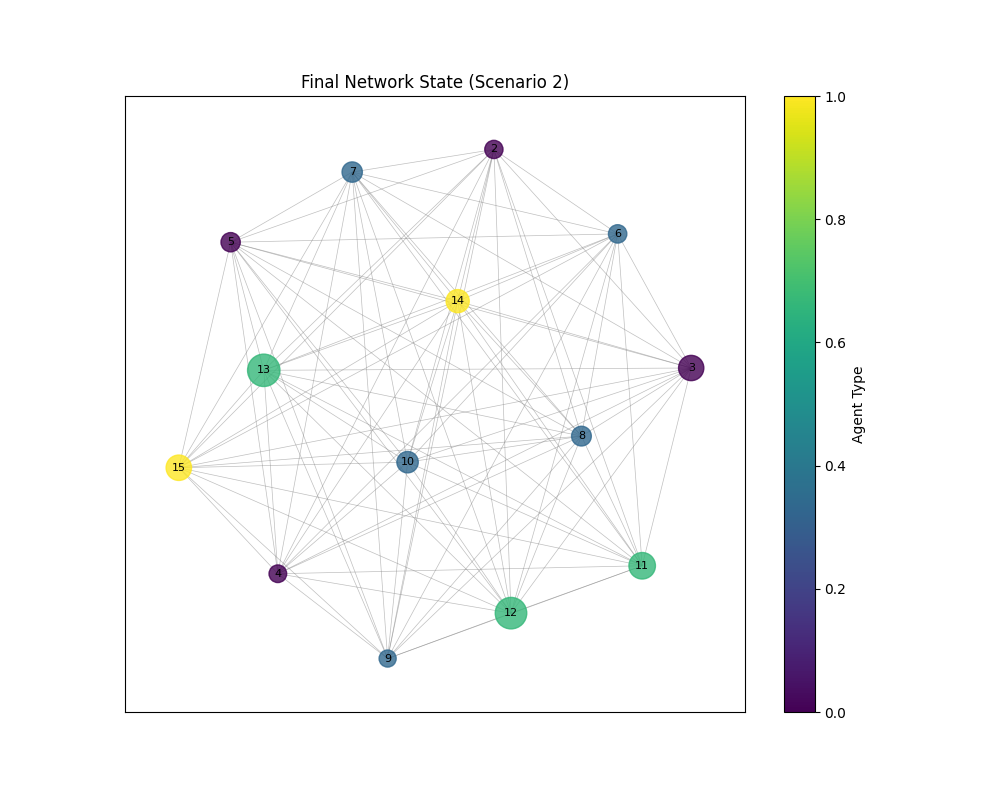
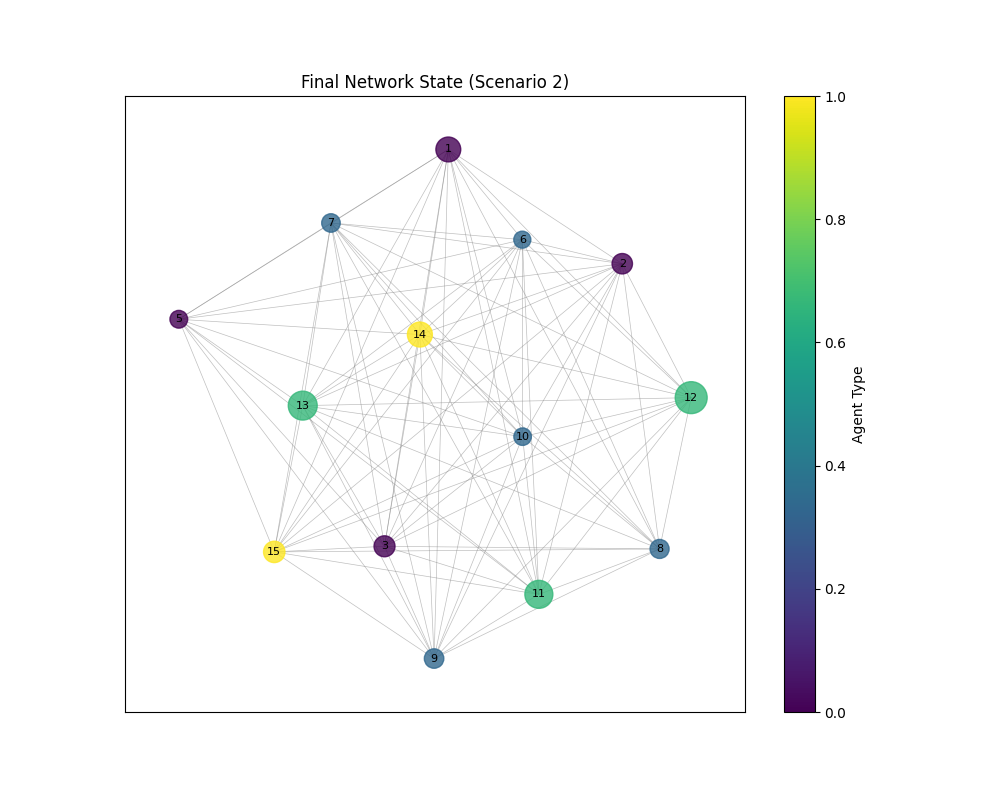
feat: Implement Scenario 3 (Resource Opportunity Window)

Changed region(s): [[0.155, 0.1562, 0.713, 0.8438]]

diff --git a/governance_model.py b/governance_model.py
@@ -13,6 +13,7 @@ class AgentType(enum.Enum):
     CSO = 2
     PRIVATE_ENTERPRISE = 3
     ACADEMIC = 4
+    RESOURCE_NODE = 5
 
 class GovernanceAgent(mesa.Agent):
     """An agent representing an organizational actor in the governance network."""
@@ -37,16 +38,26 @@ class GovernanceAgent(mesa.Agent):
                 for agent in self.model.agent_set
                 if agent.unique_id != self.unique_id and not self.model.G.has_edge(self.unique_id, agent.unique_id)
             ]
+
+            # Add resource node as a possible partner if it exists and is not connected
+            if hasattr(self.model, 'resource_node') and self.model.resource_node.unique_id != self.unique_id and not self.model.G.has_edge(self.unique_id, self.model.resource_node.unique_id):
+                possible_partners.append(self.model.resource_node)
+
             if possible_partners:
                 partner = self.random.choice(possible_partners)
                 
                 # Simplified probability calculation
-                homophily_score = 1 if self.agent_type == partner.agent_type else 0
-                resource_seeking_score = max(0, (partner.resources - self.resources) / 100)
-                
-                # Motivation profile weighs the scores
-                prob = (self.motivation_profile * homophily_score + 
-                        (1 - self.motivation_profile) * resource_seeking_score)
+                if hasattr(partner, "is_resource_node"):
+                    # Probability for resource node: proportional to agent's resources and degree
+                    agent_degree = self.model.G.degree[self.unique_id] if self.unique_id in self.model.G else 0
+                    prob = (self.resources / 100.0) * (agent_degree / (len(self.model.agent_set) - 1)) # Normalize resources and degree
+                else:
+                    homophily_score = 1 if self.agent_type == partner.agent_type else 0
+                    resource_seeking_score = max(0, (partner.resources - self.resources) / 100)
+                    
+                    # Motivation profile weighs the scores
+                    prob = (self.motivation_profile * homophily_score + 
+                            (1 - self.motivation_profile) * resource_seeking_score)
                 
                 if self.random.random() < prob:
                     self.model.G.add_edge(self.unique_id, partner.unique_id, relationship_strength=0.05)
@@ -65,13 +76,14 @@ class GovernanceAgent(mesa.Agent):
 class GovernanceModel(mesa.Model):
     """The main model for the governance network simulation."""
 
-    def __init__(self, num_agents_per_type, link_decay_rate, forum_frequency, project_resource_threshold, midpoint_removal_step=None):
+    def __init__(self, num_agents_per_type, link_decay_rate, forum_frequency, project_resource_threshold, midpoint_removal_step=None, resource_node_introduction_step=None):
         super().__init__()
         self.num_agents_per_type = num_agents_per_type
         self.link_decay_rate = link_decay_rate
         self.forum_frequency = forum_frequency
         self.project_resource_threshold = project_resource_threshold
         self.midpoint_removal_step = midpoint_removal_step
+        self.resource_node_introduction_step = resource_node_introduction_step
         self.agent_set = AgentSet([], self.random)
         self.G = nx.Graph()
         self.space = mesa.space.NetworkGrid(self.G)
@@ -93,6 +105,8 @@ class GovernanceModel(mesa.Model):
                 "Number of Active Edges": lambda m: m.G.number_of_edges(),
                 "Successful Projects": lambda m: len(m.successful_projects),
                 "Largest Connected Component Size": lambda m: len(max(nx.connected_components(m.G), key=len)) if m.G.nodes else 0,
+                "Resource Node Degree": lambda m: m.G.degree[m.resource_node.unique_id] if hasattr(m, 'resource_node') and m.resource_node.unique_id in m.G else 0,
+                "Gini Coefficient": lambda m: self.calculate_gini(m.agent_set),
             },
             agent_reporters={
                 "agent_type": "agent_type",
@@ -102,9 +116,28 @@ class GovernanceModel(mesa.Model):
             },
         )
 
+    def calculate_gini(self, agent_set):
+        """Calculates the Gini coefficient for agent resources."""
+        if not agent_set:
+            return 0.0
+        resources = sorted([agent.resources for agent in agent_set])
+        n = len(resources)
+        if n <= 1:
+            return 0.0
+        
+        numerator = sum((2 * i + 1 - n) * resources[i] for i in range(n))
+        denominator = n * sum(resources)
+        
+        if denominator == 0:
+            return 0.0
+        
+        return numerator / denominator
+
     def create_agents(self):
         """Create the agents for the model."""
         for agent_type in AgentType:
+            if agent_type == AgentType.RESOURCE_NODE: # Resource node is created dynamically
+                continue
             for _ in range(self.num_agents_per_type[agent_type]):
                 resources = self.random.uniform(10, 50)
                 commitment = self.random.uniform(0.2, 0.8)
@@ -210,6 +243,14 @@ class GovernanceModel(mesa.Model):
                 self.agent_set.remove(emu_agent)
                 self.G.remove_node(emu_agent.unique_id)
 
+        if self.resource_node_introduction_step and self.schedule.steps == self.resource_node_introduction_step:
+            resource_node_agent = GovernanceAgent(self, AgentType.RESOURCE_NODE, 1000000.0, 1.0, 0.5) # High resources, high commitment
+            self.agent_set.add(resource_node_agent)
+            self.G.add_node(resource_node_agent.unique_id, agent=resource_node_agent)
+            self.resource_node = resource_node_agent
+            setattr(resource_node_agent, "is_resource_node", True)
+            print(f"Introducing Resource Node {resource_node_agent.unique_id} at step {self.schedule.steps}")
+
         self.trigger_forum_event()
         self.link_decay()
         self.execute_joint_projects()
@@ -299,8 +340,39 @@ if __name__ == "__main__":
     model2_data = model2.datacollector.get_model_vars_dataframe()
     agent2_data = model2.datacollector.get_agent_vars_dataframe()
 
-    print("\nModel-level Data (Scenario 2):")
-    print(model2_data)
+    print("\n" + "-"*30)
+    print("Running Scenario 3: The Resource Opportunity Window")
+    print("-"*30)
 
-    print("\nAgent-level Data (Scenario 2):")
-    print(agent2_data)
+    scenario3_params = {
+        "num_agents_per_type": {
+            AgentType.GOVERNMENT: 5,
+            AgentType.CSO: 5,
+            AgentType.PRIVATE_ENTERPRISE: 3,
+            AgentType.ACADEMIC: 2,
+        },
+        "link_decay_rate": 0.02,
+        "forum_frequency": 0.2,
+        "project_resource_threshold": 100,
+        "resource_node_introduction_step": 50,
+    }
+
+    model3 = GovernanceModel(**scenario3_params)
+
+    print("Initial Network (Scenario 3):")
+    visualize_network(model3, "Initial Network State (Scenario 3)", save_path="results/scenario3_initial_network.png")
+
+    for i in range(100):
+        model3.step()
+
+    print("\nFinal Network (Scenario 3):")
+    visualize_network(model3, "Final Network State (Scenario 3)", save_path="results/scenario3_final_network.png")
+
+    model3_data = model3.datacollector.get_model_vars_dataframe()
+    agent3_data = model3.datacollector.get_agent_vars_dataframe()
+
+    print("\nModel-level Data (Scenario 3):")
+    print(model3_data)
+
+    print("\nAgent-level Data (Scenario 3):")
+    print(agent3_data)
